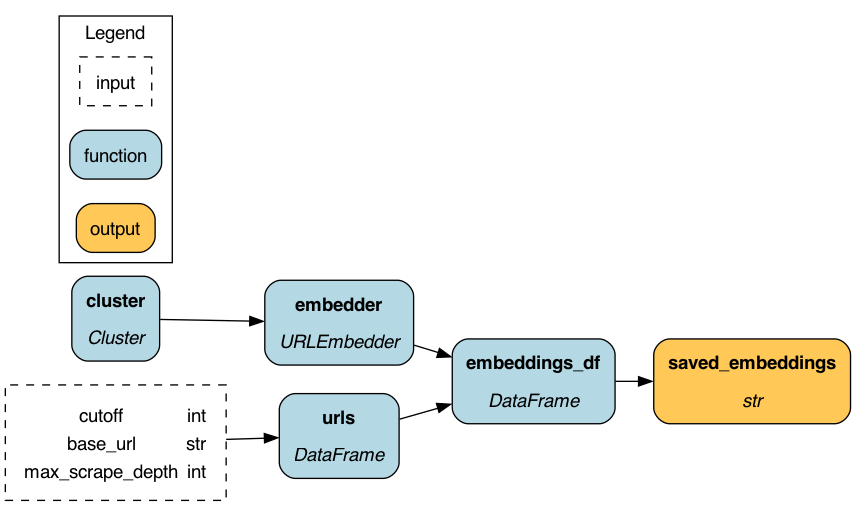
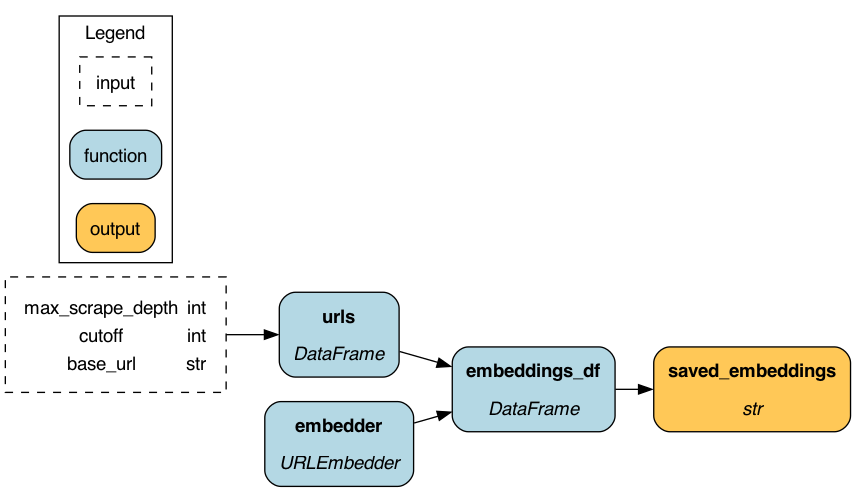
Fixes up hamilton to work/log to local UI (easy to get people testing

diff --git a/batch_process.py b/batch_process.py
@@ -1,4 +1,5 @@
 import os
+import sys
 
 import hamilton_sdk.adapters
 import pandas as pd
@@ -16,16 +17,12 @@ def urls(base_url: str, max_scrape_depth: int = 1, cutoff: int = None) -> pd.Dat
     return pd.DataFrame(relevant_urls, columns=["url"])
 
 
-def cluster() -> rh.Cluster:
-    """Sets up a cluster for embedding URLs."""
-    return rh.cluster(f"/dongreenberg/rh-hamilton-a10g",
+def embedder() -> URLEmbedder:
+    """Sets up an embedder to embed URLs on a remote GPU box."""
+    cluster = rh.cluster(f"/dongreenberg/rh-hamilton-a10g",
                       instance_type="A10G:1",
                       auto_stop_mins=5,
                       spot=True).up_if_not()
-
-
-def embedder(cluster: rh.Cluster) -> URLEmbedder:
-    """Sets up an embedder to embed URLs on a remote GPU box."""
     env = rh.env(
         name=f"langchain_embed_env",
         reqs=["langchain", "langchain-community", "langchainhub", "sentence_transformers", "bs4"],
@@ -57,22 +54,25 @@ def saved_embeddings(embeddings_df: pd.DataFrame) -> str:
     return path
 
 
-def generate_url_embeddings(base_url):
+def _generate_url_embeddings(base_url):
     """This leverages Hamilton as a few big functions. The piece that runs the
     embeddings in parallel is all done inside a single function, so those assets are not visible."""
+    import __main__
     dr = (
         driver
         .Builder()
         .with_adapters(
             hamilton_sdk.adapters.HamiltonTracker(
-                project_id=19374,
-                username="elijah@dagworks.io",
-                dag_name="runhouse_macro_version",
-                api_key=os.environ.get("DAGWORKS_API_KEY"),
-                hamilton_api_url="https://api.app.dagworks.io",
-                hamilton_ui_url="https://app.dagworks.io",
+                project_id=1,  # get from the UI -- pip install hamilton[ui]
+                username="elijah",
+                dag_name="embeddings_workflow",
+                # You can also connect to the hosted instance
+                # api_key=os.environ.get("DAGWORKS_API_KEY"),
+                # hamilton_api_url="https://api.app.dagworks.io",
+                # hamilton_ui_url="https://app.dagworks.io",
             )
         )
+        .with_modules(sys.modules[__name__])
         .build()
     )
     dr.visualize_execution(
@@ -91,4 +91,4 @@ def generate_url_embeddings(base_url):
 
 
 if __name__ == "__main__":
-    generate_url_embeddings("https://en.wikipedia.org/wiki/Poker")
+    _generate_url_embeddings("https://en.wikipedia.org/wiki/Poker")
